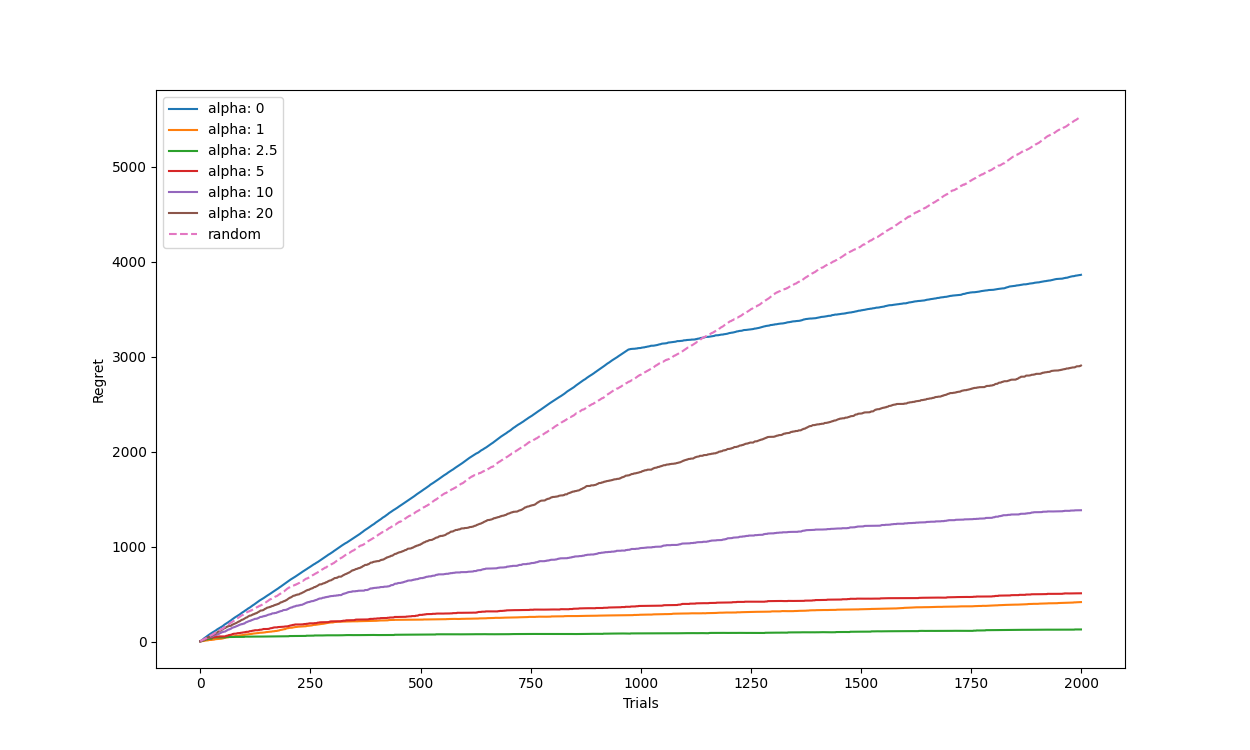
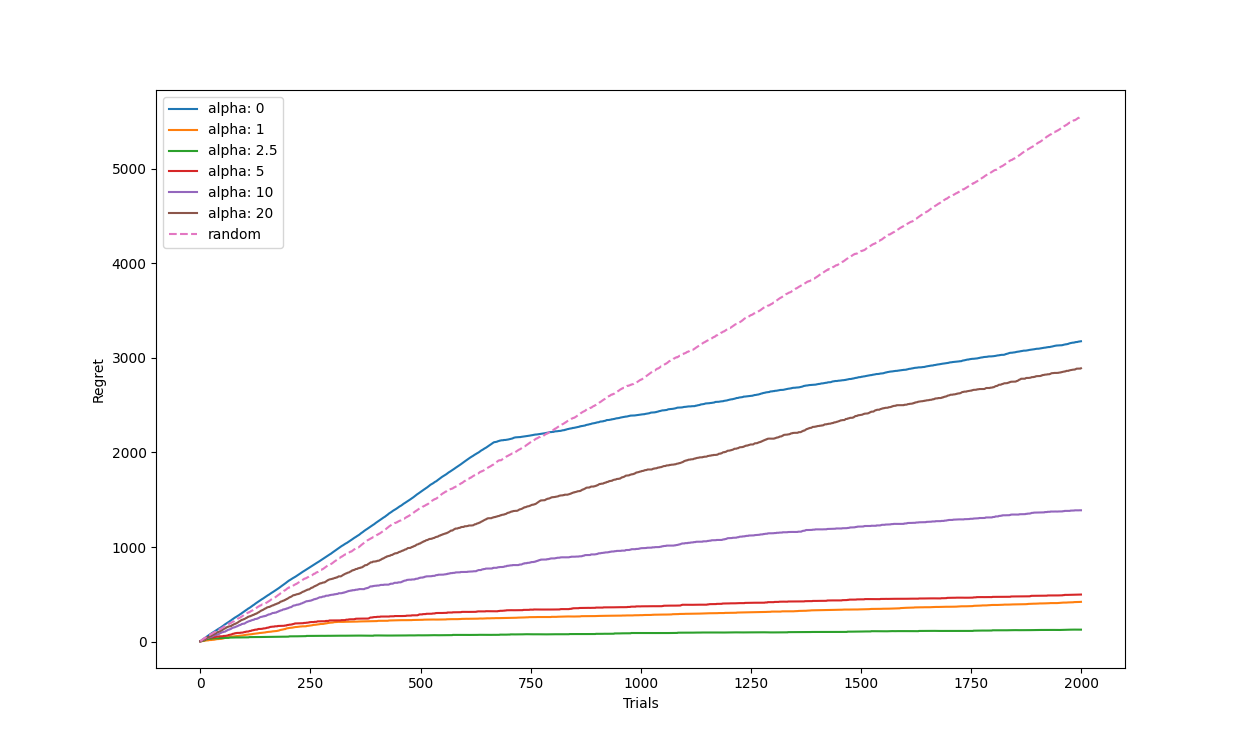
Alpha and beta implemented

diff --git a/alg.py b/alg.py
@@ -2,65 +2,81 @@ import numpy as np
 
 
 class Alg:
-    def __init__(self, feature_dim, n_arms):
+    def __init__(self, feature_dim, n_arms, alpha):
         self.feature_dim = feature_dim
         self.n_arms = n_arms
         
         self.H = np.zeros(shape=(n_arms, feature_dim, feature_dim), dtype=np.float64)   # F.T * F
         self.Y = np.zeros(shape=(n_arms, feature_dim), dtype=np.float64)                # F.T * R
 
-        self.C = np.empty_like(self.H)
-        self.R = np.empty_like(self.H)
-        self.S = np.empty_like(self.H)
+        # TODO: in general, C, R, S can be different for each arm
+        self.C = 0.5 * np.identity(n=feature_dim, dtype=np.float64)
+        self.R = 10 * np.identity(n=feature_dim, dtype=np.float64)
+        self.S = 1.0 * np.identity(n=feature_dim, dtype=np.float64)
+        self.R_inv = np.linalg.inv(self.R)
+        self.S_inv = np.linalg.inv(self.S)
+
         self.P_inv = np.empty_like(self.H)
-        # self.V = np.empty_like(self.H)
         self.Theta = np.zeros_like(self.Y)
+        self.alpha = np.zeros(shape=n_arms, dtype=np.float64)
+        self.beta = np.ones(shape=n_arms, dtype=np.float64)
+        self.arm = 0
 
         for arm in range(n_arms):
-            self.C[arm] = 0.5 * np.identity(n=feature_dim, dtype=np.float64) # TODO: C,R,S the same/arm?
-            self.R[arm] = 10 * np.identity(n=feature_dim, dtype=np.float64)
-            self.S[arm] = 1.0 * np.identity(n=feature_dim, dtype=np.float64)
             # self.P_inv[arm] = np.linalg.inv(self.S[arm] + self.H[arm].T @ self.R[arm] @ self.H[arm])
             # self.Theta[arm] = self.P_inv[arm].dot(self.H[arm].T).dot(self.R[arm]).dot(self.Y[arm])
-            self.P_inv[arm] = np.linalg.inv(self.S[arm]) # assuming H[arm] is zeros
-            # self.Theta[arm] = np.zeros(feature_dim) # assuming H[arm] is zeros
-            # self.V[arm] = 1 / self.S[arm] + self.C[arm] @ self.P_inv[arm] @ self.C[arm].T
+            self.P_inv[arm] = self.S_inv # assuming H[arm] is zeros
+            # self.alpha[arm] = self.R.dot(self.Y[arm]).dot(self.Y[arm]) # TODO: only if Y == zeros!
 
         self.p = np.empty(shape=n_arms, dtype=np.float64)
 
-
-        # LinUCB
-        # self.alpha = alpha
-        # self.b = np.zeros(shape=(n_arms, feature_dim), dtype=np.float64)
-        # self.A = np.empty(shape=(n_arms, feature_dim, feature_dim), dtype=np.float64)
-        # for arm in range(n_arms):
-            # self.A[arm] = np.identity(n=feature_dim, dtype=np.float64)
-        # self.p = np.empty(shape=n_arms, dtype=np.float64)
-
     def choose_arm(self, features):
+        # arm = self.arm
+        # if arm == self.arm:
+        # print('Played arm:', self.arm)
+        # print('BEFORE UPDATING:')
+        # print('alpha[0]={:.6f}, alpha[1]={:.6f}; beta[0]={:.6f}, beta[1]={:.6f}'.format(
+            # self.alpha[0], self.alpha[1], self.beta[0], self.beta[1]))
+        # print('UPDATES: alpha = alpha + x - y; beta = 1 - alpha + z')
+        # print('{:3s}\t{:10s}\t{:10s}\t{:10s}\t{:10s}\t{:10s}'.format(
+            # 'arm', 'x', 'y', 'z', 'alpha', 'beta'))
         for arm in range(self.n_arms):
-            V = np.linalg.inv(self.S[arm]) + self.C[arm] @ self.P_inv[arm] @ self.C[arm].T # TODO: inv(S)
-            # is const
+            V = self.S_inv + self.C @ self.P_inv[arm] @ self.C.T
+
             self.P_inv[arm] = V - V @ self.H[arm].T @ \
-                    np.linalg.inv(np.linalg.inv(self.R[arm]) + self.H[arm] @ V @ self.H[arm].T) @ \
-                    self.H[arm] @ V  # TODO: how is R updated? store inv(R) as it is const 
+                    np.linalg.inv(self.R_inv + self.H[arm] @ V @ self.H[arm].T) @ \
+                    self.H[arm] @ V
+
             self.Theta[arm] = self.P_inv[arm].dot(np.linalg.inv(V)).\
-                    dot(self.C[arm]).dot(self.Theta[arm]) + \
-                    self.P_inv[arm].dot(self.H[arm].T).dot(self.R[arm]).dot(self.Y[arm])
+                    dot(self.C).dot(self.Theta[arm]) + \
+                    self.P_inv[arm].dot(self.H[arm].T).dot(self.R).dot(self.Y[arm])
+
             self.p[arm] = np.dot(features[arm], self.Theta[arm]) + \
-                    2.5 * np.sqrt(np.dot(self.P_inv[arm].dot(features[arm]), features[arm]))
+                    np.sqrt(self.beta[arm] * np.dot(self.P_inv[arm].dot(features[arm]), features[arm]))
 
-            # LinUCB
-            # A_inv = np.linalg.inv(self.A[arm])
-            # self.p[arm] = np.dot(np.dot(A_inv, self.b[arm]).T, features[arm]) + \
-                    # self.alpha * np.sqrt(np.dot(features[arm].T, np.dot(A_inv, features[arm])))
+        # self.R *= 0.1
+        self.arm = np.argmax(self.p)
+        # print()
 
-        return np.argmax(self.p)
+        return self.arm
 
     def update(self, chosen_arm, chosen_arm_features, reward):
+        self._calculate_beta(chosen_arm)
         self.H[chosen_arm] += np.outer(chosen_arm_features, chosen_arm_features)
         self.Y[chosen_arm] += reward * chosen_arm_features
 
-        # LinUCB
-        # self.A[chosen_arm] += np.outer(chosen_arm_features, chosen_arm_features)
-        # self.b[chosen_arm] += reward * chosen_arm_features
+    def _calculate_beta(self, arm):
+        x = self.R.dot(self.Y[arm]).dot(self.Y[arm])
+        y = np.dot(np.linalg.inv(self.P_inv[arm] + \
+                    self.P_inv[arm] @ self.C.T @ self.S @ self.C @ self.P_inv[arm]
+                    ).dot(self.Theta[arm]), self.Theta[arm])
+        z = np.linalg.inv(self.P_inv[arm]).dot(self.Theta[arm]).dot(self.Theta[arm])
+
+        self.alpha[arm] += (x - y)
+        self.beta[arm] = 1 - self.alpha[arm] + z
+
+        # print('{:3d}\t{:.6f}\t{:.6f}\t{:.6f}\t{:.6f}\t{:.6f}'.format(
+            # arm, x, y, z, self.alpha[arm], self.beta[arm]))
+        if self.beta[arm] < 0:
+            print('Failed for arm:', arm)
+            exit()

diff --git a/main.py b/main.py
@@ -7,6 +7,7 @@ https://github.com/etiennekintzler/visualize_bandit_algorithms/blob/master/linUC
 import numpy as np
 from linucb import LinUCB
 from alg import Alg
+import test
 import matplotlib.pyplot as plt
 
 
@@ -14,19 +15,16 @@ np.random.seed(123)
 
 FEATURE_DIM = 5
 N_ARMS = 16
-ALPHA = 0.0
 N_TRIALS = 2000
+ALPHA = 2.5
+LINUCB = (1 == 1)
+ALG = (1 == 1)
+TEST = (1 == 0)
 BEST_ARMS = [3, 7, 9, 15]
 
 
-# DATA = np.random.uniform(low=0, high=1, size=(N_TRIALS, N_ARMS, FEATURE_DIM))
-DATA = np.array([[np.random.uniform(low=0, high=1, size=FEATURE_DIM) for _ in range(N_ARMS)] \
-        for _ in range(N_TRIALS)])
-
-
 def true_theta(n_arms, feature_dim):
-    # theta = np.random.normal(size=(n_arms, feature_dim), scale=0.25)
-    theta = np.array([np.random.normal(size=feature_dim, scale=1/4) for _ in range(n_arms)])
+    theta = np.random.normal(size=(n_arms, feature_dim), scale=0.25)
     theta[BEST_ARMS] = theta[BEST_ARMS] + 1
 
     return theta
@@ -34,56 +32,84 @@ def true_theta(n_arms, feature_dim):
 
 def reward_func(arm, context, theta, scale_noise=0.1):
     signal = np.dot(theta[arm], context)
-    noise = np.random.normal(scale=scale_noise)
+    noise = np.random.normal(scale=scale_noise)# * (0.5/N_TRIALS)
+    # noise = 0.0
 
     return signal + noise
 
 
+DATA = np.random.uniform(low=0, high=1, size=(N_TRIALS, N_ARMS, FEATURE_DIM))
 TRUE_THETA = true_theta(N_ARMS, FEATURE_DIM)
 
-DATA = np.array([[np.random.uniform(low=0, high=1, size=FEATURE_DIM) for _ in range(N_ARMS)] \
-        for _ in range(N_TRIALS)])
-TRUE_THETA = true_theta(N_ARMS, FEATURE_DIM)
+if TEST:
+    DATA = test.DATA
+    TRUE_THETA = test.TRUE_THETA
+    N_TRIALS, N_ARMS, FEATURE_DIM = DATA.shape
+
 
 EXPECTED_REWARDS = np.array([
         np.max([reward_func(arm, DATA[t, arm], TRUE_THETA) for arm in range(N_ARMS)]) \
         for t in np.arange(N_TRIALS)
         ])
-estimated_rewards_l = np.empty(N_TRIALS)
-estimated_rewards_a = np.empty(N_TRIALS)
 
-payoff_random = np.array([reward_func(arm=np.random.choice(N_ARMS), context=DATA[t, np.random.choice(N_ARMS)], theta=TRUE_THETA) for t in np.arange(DATA.shape[0])])
-
-alpha_to_test = [0, 1, 2.5, 5, 10, 20]
 plt.figure(figsize=(12.5, 7.5))
 
-for alpha in alpha_to_test:
-    linucb = LinUCB(feature_dim=FEATURE_DIM, n_arms=N_ARMS, alpha=alpha)
-    # alg = Alg(feature_dim=FEATURE_DIM, n_arms=N_ARMS)
+if LINUCB:
+    linucb = LinUCB(feature_dim=FEATURE_DIM, n_arms=N_ARMS, alpha=ALPHA)
+    estimated_rewards_l = np.empty(N_TRIALS)
+
+if ALG:
+    alg = Alg(feature_dim=FEATURE_DIM, n_arms=N_ARMS, alpha=ALPHA)
+    estimated_rewards_a = np.empty(N_TRIALS)
+
+one_minus_sum = 1
+sum_x = 0
+etas = np.empty(N_TRIALS)
+alphas = np.empty((N_ARMS, N_TRIALS))
+
+for t in range(N_TRIALS):
+    print('t={}'.format(t), end='\r')
+    features = DATA[t]
     
-    for t in range(N_TRIALS):
-        print('t={}'.format(t), end='\r')
-        features = DATA[t]
-    
+    if LINUCB:
         chosen_arm = linucb.choose_arm(features)
         reward = reward_func(chosen_arm, features[chosen_arm], TRUE_THETA)
         linucb.update(chosen_arm, features[chosen_arm], reward)
         estimated_rewards_l[t] = reward
-    
-        # chosen_arm_a = alg.choose_arm(features)
-        # reward_a = reward_func(chosen_arm_a, features[chosen_arm_a], TRUE_THETA)
-        # alg.update(chosen_arm_a, features[chosen_arm_a], reward_a)
-        # estimated_rewards_a[t] = reward_a
-    
-    regret_l = np.cumsum(EXPECTED_REWARDS - estimated_rewards_l)
-    # regret_a = np.cumsum(EXPECTED_REWARDS - estimated_rewards_a)
-    
-    plt.plot(regret_l, label='alpha: ' + str(alpha))
 
-plt.plot(np.cumsum(EXPECTED_REWARDS - payoff_random), label = "random", linestyle='--')
-# plt.plot(regret_a, label='Alg')
+    if ALG:
+        chosen_arm = alg.choose_arm(features)
+        alphas[:, t] = alg.alpha
+
+        # dot = alg.R.dot(features[chosen_arm]).dot(features[chosen_arm])
+        # eta = np.sqrt(one_minus_sum / dot / N_TRIALS)
+        # etas[t] = eta
+        # x = one_minus_sum / N_TRIALS # dot * eta**2
+        # one_minus_sum -= x
+        # sum_x += x
+        # assert one_minus_sum >= 0
+        # print(eta, x)
+        # exit()
+    
+        reward = reward_func(chosen_arm, features[chosen_arm], TRUE_THETA)# + eta
+        alg.update(chosen_arm, features[chosen_arm], reward)
+        estimated_rewards_a[t] = reward
+
+# print('sum_x =', sum_x)
+# for arm in range(N_ARMS):
+    # plt.plot(alphas[arm], label=str(arm))
+# plt.legend()
+# plt.show()
+# exit()
+
+if LINUCB:
+    regret_l = np.cumsum(EXPECTED_REWARDS - estimated_rewards_l)
+    plt.plot(regret_l, label='LinUCB')
+if ALG:
+    regret_a = np.cumsum(EXPECTED_REWARDS - estimated_rewards_a)
+    plt.plot(regret_a, label='Alg')
+
 plt.xlabel('Trials')
 plt.ylabel('Regret')
-# plt.ylim([0,5000])
 plt.legend()
 plt.show()

diff --git a/test_linucb.py b/test_linucb.py
@@ -1,0 +1,81 @@
+'''
+Inspired from:
+https://www.kaggle.com/phamvanvung/cb-linucb/notebook
+https://github.com/etiennekintzler/visualize_bandit_algorithms/blob/master/linUCB.ipynb
+'''
+
+import numpy as np
+from linucb import LinUCB
+import matplotlib.pyplot as plt
+
+
+np.random.seed(123)
+
+FEATURE_DIM = 5
+N_ARMS = 16
+ALPHA = 0.0
+N_TRIALS = 2000
+BEST_ARMS = [3, 7, 9, 15]
+
+# DATA = np.random.uniform(low=0, high=1, size=(N_TRIALS, N_ARMS, FEATURE_DIM))
+DATA = np.array([[np.random.uniform(low=0, high=1, size=FEATURE_DIM) for _ in range(N_ARMS)] \
+        for _ in range(N_TRIALS)])
+
+
+def true_theta(n_arms, feature_dim):
+    theta = np.array([np.random.normal(size=feature_dim, scale=1/4) for _ in range(n_arms)])
+    theta[BEST_ARMS] = theta[BEST_ARMS] + 1
+
+    return theta
+
+
+def reward_func(arm, context, theta, scale_noise=1/10):
+    signal = np.dot(theta[arm], context)
+    noise = np.random.normal(scale=scale_noise)
+
+    return signal + noise
+
+
+TRUE_THETA = true_theta(N_ARMS, FEATURE_DIM)
+
+DATA = np.array([[np.random.uniform(low=0, high=1, size=FEATURE_DIM) for _ in range(N_ARMS)] \
+        for _ in range(N_TRIALS)])
+TRUE_THETA = true_theta(N_ARMS, FEATURE_DIM)
+
+ave_reward = np.mean([[reward_func(arm=arm, context=DATA[t, arm], theta=TRUE_THETA) 
+    for arm in np.arange(N_ARMS)] for t in np.arange(N_TRIALS)], axis=0)
+
+EXPECTED_REWARDS = np.array([
+        np.max([reward_func(arm, DATA[t, arm], TRUE_THETA) for arm in range(N_ARMS)]) \
+        for t in np.arange(N_TRIALS)
+        ])
+
+estimated_rewards = np.empty(N_TRIALS)
+
+payoff_random = np.array([reward_func(arm=np.random.choice(N_ARMS), 
+    context=DATA[t, np.random.choice(N_ARMS)], theta=TRUE_THETA) for t in np.arange(DATA.shape[0])])
+
+alpha_to_test = [0, 1, 2.5, 5, 10, 20]
+plt.figure(figsize=(12.5, 7.5))
+
+for alpha in alpha_to_test:
+    linucb = LinUCB(feature_dim=FEATURE_DIM, n_arms=N_ARMS, alpha=alpha)
+    
+    for t in range(N_TRIALS):
+        print('t={}'.format(t), end='\r')
+        features = DATA[t]
+    
+        chosen_arm = linucb.choose_arm(features)
+        reward = reward_func(chosen_arm, features[chosen_arm], TRUE_THETA)
+        linucb.update(chosen_arm, features[chosen_arm], reward)
+        estimated_rewards[t] = reward
+    
+    regret = np.cumsum(EXPECTED_REWARDS - estimated_rewards)
+    
+    plt.plot(regret, label='alpha: ' + str(alpha))
+
+plt.plot(np.cumsum(EXPECTED_REWARDS - payoff_random), label = "random", linestyle='--')
+plt.xlabel('Trials')
+plt.ylabel('Regret')
+plt.legend()
+plt.show()

diff --git a/test.py b/test.py
@@ -1,0 +1,30 @@
+from numpy import array
+# T = 10, A = 2, D = 3
+
+DATA = array([
+        [[0.1, 0.2, 0.3],
+         [0.4, 0.5, 0.6]],
+        [[0.2, 0.3, 0.1],
+         [0.5, 0.6, 0.4]],
+        [[0.3, 0.1, 0.2],
+         [0.6, 0.4, 0.5]],
+        [[0.7, 0.8, 0.9],
+         [0.1, 0.2, 0.3]],
+        [[0.8, 0.9, 0.7],
+         [0.2, 0.3, 0.1]],
+        [[0.9, 0.7, 0.8],
+         [0.3, 0.1, 0.2]],
+        [[0.3, 0.4, 0.5],
+         [0.9, 0.0, 0.1]],
+        [[0.4, 0.5, 0.3],
+         [0.0, 0.1, 0.9]],
+        [[0.5, 0.3, 0.4],
+         [0.1, 0.9, 0.0]],
+        [[0.3, 0.2, 0.1],
+         [0.6, 0.5, 0.4]]
+])
+
+TRUE_THETA = array([
+    [0.15, 0.46, 0.21],
+    [0.72, 0.08, 0.64]
+])
